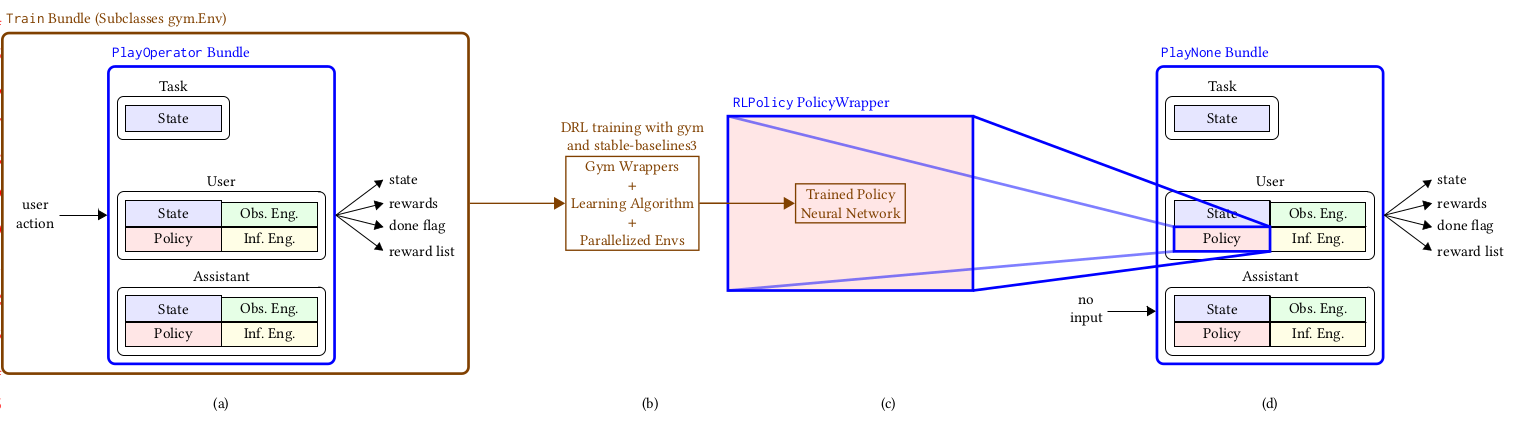
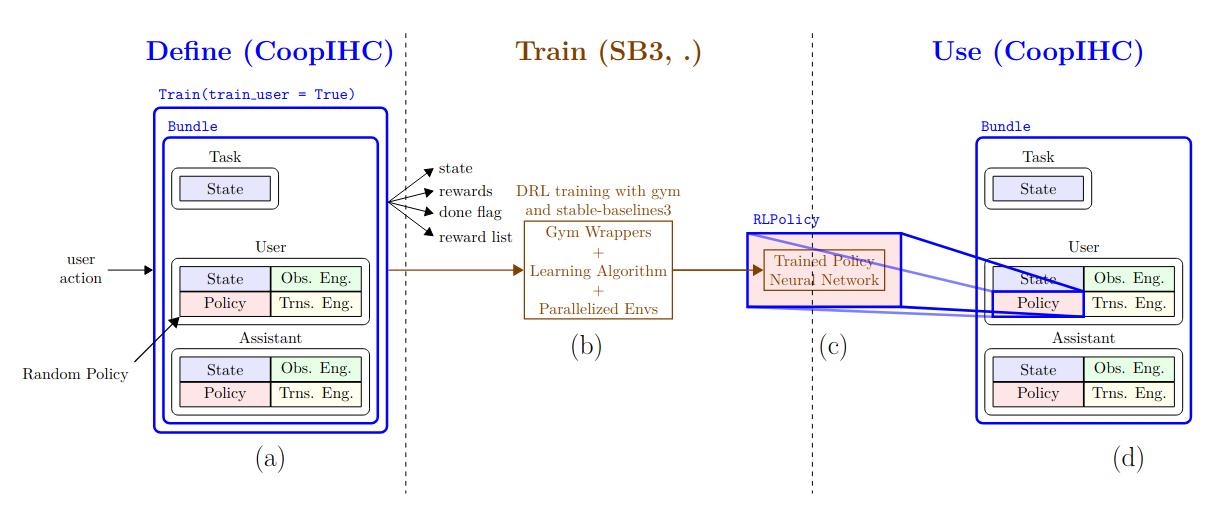
updated some objects that were outdated w/r new API from several months ago

diff --git a/coopihc/observation/WrapAsObservationEngine.py b/coopihc/observation/WrapAsObservationEngine.py
@@ -12,28 +12,28 @@ class WrapAsObservationEngine(BaseObservationEngine):
 
     def __init__(self, obs_bundle):
 
-        self.bundle = obs_bundle
-        self.bundle.reset()
+        self.observation_bundle = obs_bundle
+        self.observation_bundle.reset()
 
     def __content__(self):
         return {
             "Name": self.__class__.__name__,
-            "Bundle": self.bundle.__content__(),
+            "Bundle": self.observation_bundle.__content__(),
         }
 
     @property
     def unwrapped(self):
-        return self.bundle.unwrapped
+        return self.observation_bundle.unwrapped
 
     @property
     def game_state(self):
-        return self.bundle.game_state
+        return self.observation_bundle.game_state
 
     def reset(self, *args, **kwargs):
-        return self.bundle.reset(*args, **kwargs)
+        return self.observation_bundle.reset(*args, **kwargs)
 
     def step(self, *args, **kwargs):
-        return self.bundle.step(*args, **kwargs)
+        return self.observation_bundle.step(*args, **kwargs)
 
     def observe(self, game_state):
         pass
@@ -41,7 +41,9 @@ class WrapAsObservationEngine(BaseObservationEngine):
         # return observation, rewards
 
     def __str__(self):
-        return "{} <[ {} ]>".format(self.__class__.__name__, self.bundle.__str__())
+        return "{} <[ {} ]>".format(
+            self.__class__.__name__, self.observation_bundle.__str__()
+        )
 
     def __repr__(self):
         return self.__str__()

diff --git a/coopihc/bundle/BaseBundle.py b/coopihc/bundle/BaseBundle.py
@@ -707,9 +707,27 @@ class BaseBundle:
             is_done,
         )
 
-    def sample(self, n_turns=10):
+    def sample(self, n_turns=10, verbose=False):
+        """Generate n_turns episodes
+
+        Generate n_turns episodes, by resetting the bundle and stepping until it ends.
+        Collects all bundle  states and rewards during the episode, and also return the average reward.
+
+        :param n_turns: number of episodes, defaults to 10
+        :type n_turns: int, optional
+        :param verbose: print out information, defaults to False
+        :type verbose: bool, optional
+        :return: episodes, average reward
+        :rtype: list, float
+        """
         episodes = []
         sampler = Sampler(self, n_turns=n_turns)
-        for states, rewards in sampler:
+        reward_sum = 0
+        for ne, (states, rewards) in enumerate(sampler):
             episodes.append([states, rewards])
-        return episodes
+            reward_sum += sum(
+                [sum(rew.values()) if rew is not None else 0 for rew in rewards]
+            )
+            if verbose:
+                print(f"Episode {ne}")
+        return episodes, reward_sum / n_turns

diff --git a/coopihc/observation/CascadedObservationEngine.py b/coopihc/observation/CascadedObservationEngine.py
@@ -33,7 +33,8 @@ class CascadedObservationEngine(BaseObservationEngine):
             }
         }
 
-    def observe(self, game_state):
+    @BaseObservationEngine.default_value
+    def observe(self, game_state=None):
         """observe
 
         Serial observations (i.e. output of an engine becomes input of the next one)
@@ -46,7 +47,7 @@ class CascadedObservationEngine(BaseObservationEngine):
         game_state = copy.deepcopy(game_state)
         rewards = 0
         for engine in self.engine_list:
-            new_obs, new_reward = engine.observe(game_state)
+            new_obs, new_reward = engine.observe(game_state=game_state)
             game_state.update(new_obs)
             rewards += new_reward
 

diff --git a/coopihc/examples/simplepointing/__init__.py b/coopihc/examples/simplepointing/__init__.py
@@ -1,0 +1,3 @@
+from .envs import SimplePointingTask
+from .users import CarefulPointer
+from .assistants import ConstantCDGain

diff --git a/docs/guide/learning.rst b/docs/guide/learning.rst
@@ -9,7 +9,7 @@ The main structure of *CoopIHC* is a multi-agent decision making model known as 
 
 The steps of this example are:
 
-1. Define the Bundle as usual, where the policy of the agent to be trained has the right actions (without a mechanism to select those actions).
+1. Define the Bundle as usual, where the policy of the agent to be trained has the correct action state but does not have a mechanism to select actions (e.g. random policy).
 2. Wrap the bundle in a ``TrainGym`` wrapper, making it compatible with the `Gym API <https://gym.openai.com/>`_ --- a widely used standard in DRL research.
 3. Train the agent's policy (i.e. attempt to solve the underlying POMDP). To do so, a machinery entirely specific to DRL and not *CoopIHC* is used. We will use `Stable-Baselines 3 (SB3) <https://stable-baselines3.readthedocs.io/en/master/>`_ to do so, which may add a few more constraints for step 2.
 4. Apply the proper wrapper to make the trained policy compatible with *CoopIHC*.
